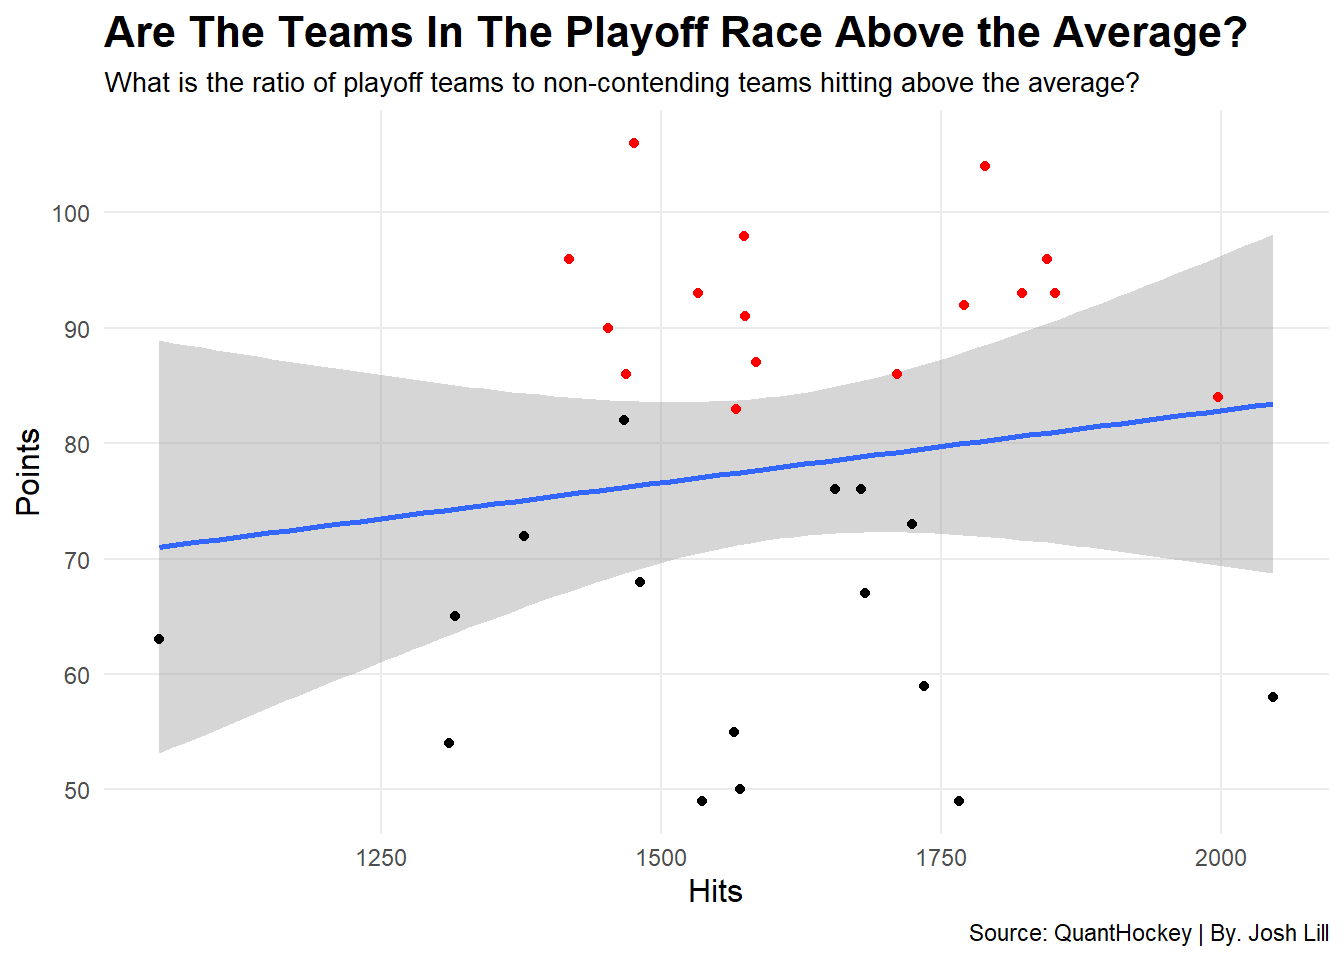
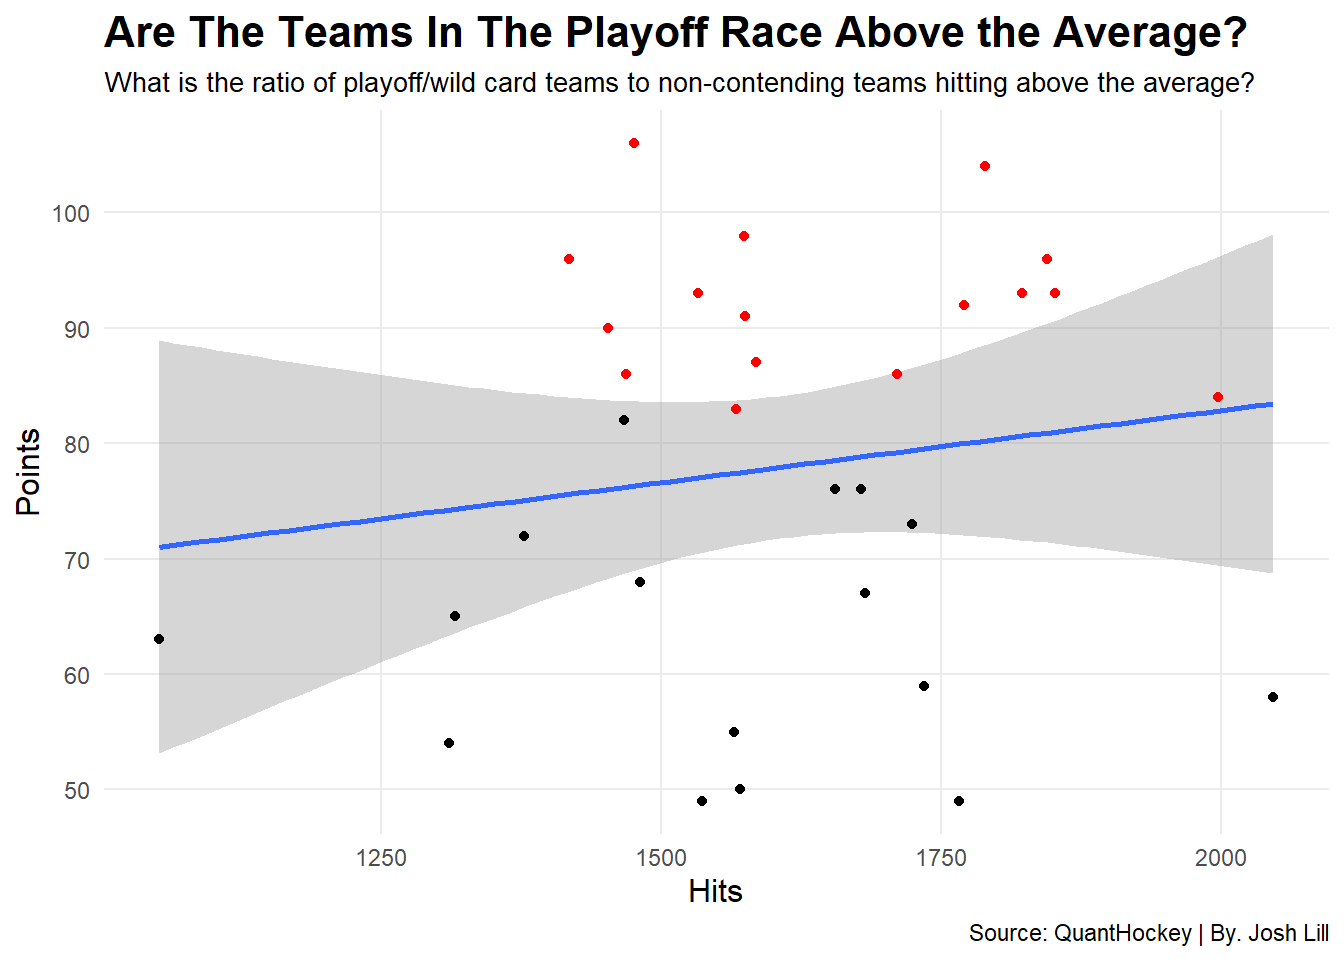
FinalEdits3
yuh

Changed region(s): [[0.3125, 0.0625, 0.9375, 0.0938]]

diff --git a/2022/03/31/does-the-amount-of-hits-by-a-team-in-the-nhl-weigh-into-their-wins/index.html b/2022/03/31/does-the-amount-of-hits-by-a-team-in-the-nhl-weigh-into-their-wins/index.html
@@ -79,17 +79,18 @@
 <p>The main question that needs to be asked: Do the amount of hits a team in the NHL has factor into their success?</p>
 <p>Now, take a look at each top 10 team’s hit totals up to this point in the 2021-22 season.</p>
 <p><img src="http://j-lill1102.github.io/2022/03/31/does-the-amount-of-hits-by-a-team-in-the-nhl-weigh-into-their-wins/index_files/figure-html/unnamed-chunk-2-1.png" width="672" />
-The Florida Panthers, currently the top team in the NHL, are currently sitting at sixth on the top 10 list for hits. The New York Rangers and the Boston Bruins, who round out the fourth and fifth ranked teams in the NHL standings, are also in the top 10 for hits in the NHL. There may be something to be said about the correlation between those three teams’ success and and their aggressiveness.</p>
+The Florida Panthers, currently the second-best team in the NHL, are currently sitting at sixth on the top 10 list for hits. The New York Rangers and the Boston Bruins, who round out the fifth and seventh ranked teams in the NHL standings, are also in the top 10 for hits in the NHL. There may be something to be said about the correlation between those three teams’ success and and their aggressiveness.</p>
+<p>However, the best team in the NHL, the Avalanche, sit at 24th on the list. Will this lack of hitting come to hurt them later on down the line? It will be something to keep an eye on.</p>
 <p>Below, the graph will attempt to show that very correlation between points and hits in the NHL. Points, for those who don’t know, are comprised of wins and overtime losses. You receive two points for a win and one point for an overtime loss. The more points you have, the higher you will be in the standings. Teams highlighted in red are in the playoffs as of today.</p>
 <p><img src="http://j-lill1102.github.io/2022/03/31/does-the-amount-of-hits-by-a-team-in-the-nhl-weigh-into-their-wins/index_files/figure-html/unnamed-chunk-4-1.png" width="672" /></p>
-<p>As you can see, 16 of the 17 teams above the hitting average are playoff teams. The one non-contending team in that spot: the Vegas Golden Knights. Take a look at the dot in the bottom right corner. That’s the Ottawa Senators, who have accumulated a league-high 2,079 hits, but a dismal 58 points.</p>
+<p>As you can see, 16 of the 17 teams above the hitting average are playoff/wild card teams. The one non-contending team in that spot: the Vegas Golden Knights. Take a look at the dot in the bottom right corner. That’s the Ottawa Senators, who have accumulated a league-high 2,079 hits, but a dismal 58 points.</p>
 <p>Jumping back to October, hits may not be the biggest factor in the game in October and November. It’s the start of a new season and that aspect of the game may not be on players’ minds. Or is it on their minds? Now, come March and April, hits may be adding up left and right with the playoffs right around the corner.</p>
-<div id="pbazvoadus" style="overflow-x:auto;overflow-y:auto;width:auto;height:auto;">
+<div id="rcrdwkpmbe" style="overflow-x:auto;overflow-y:auto;width:auto;height:auto;">
 <style>html {
   font-family: -apple-system, BlinkMacSystemFont, 'Segoe UI', Roboto, Oxygen, Ubuntu, Cantarell, 'Helvetica Neue', 'Fira Sans', 'Droid Sans', Arial, sans-serif;
 }
 
-#pbazvoadus .gt_table {
+#rcrdwkpmbe .gt_table {
   display: table;
   border-collapse: collapse;
   margin-left: auto;
@@ -114,7 +115,7 @@ The Florida Panthers, currently the top team in the NHL, are currently sitting a
   border-left-color: #D3D3D3;
 }
 
-#pbazvoadus .gt_heading {
+#rcrdwkpmbe .gt_heading {
   background-color: #FFFFFF;
   text-align: center;
   border-bottom-color: #FFFFFF;
@@ -126,7 +127,7 @@ The Florida Panthers, currently the top team in the NHL, are currently sitting a
   border-right-color: #D3D3D3;
 }
 
-#pbazvoadus .gt_title {
+#rcrdwkpmbe .gt_title {
   color: #333333;
   font-size: 125%;
   font-weight: initial;
@@ -138,7 +139,7 @@ The Florida Panthers, currently the top team in the NHL, are currently sitting a
   border-bottom-width: 0;
 }
 
-#pbazvoadus .gt_subtitle {
+#rcrdwkpmbe .gt_subtitle {
   color: #333333;
   font-size: 85%;
   font-weight: initial;
@@ -150,13 +151,13 @@ The Florida Panthers, currently the top team in the NHL, are currently sitting a
   border-top-width: 0;
 }
 
-#pbazvoadus .gt_bottom_border {
+#rcrdwkpmbe .gt_bottom_border {
   border-bottom-style: none;
   border-bottom-width: 2px;
   border-bottom-color: #D3D3D3;
 }
 
-#pbazvoadus .gt_col_headings {
+#rcrdwkpmbe .gt_col_headings {
   border-top-style: none;
   border-top-width: 2px;
   border-top-color: #D3D3D3;
@@ -171,7 +172,7 @@ The Florida Panthers, currently the top team in the NHL, are currently sitting a
   border-right-color: #D3D3D3;
 }
 
-#pbazvoadus .gt_col_heading {
+#rcrdwkpmbe .gt_col_heading {
   color: #333333;
   background-color: #FFFFFF;
   font-size: 100%;
@@ -191,7 +192,7 @@ The Florida Panthers, currently the top team in the NHL, are currently sitting a
   overflow-x: hidden;
 }
 
-#pbazvoadus .gt_column_spanner_outer {
+#rcrdwkpmbe .gt_column_spanner_outer {
   color: #333333;
   background-color: #FFFFFF;
   font-size: 100%;
@@ -203,15 +204,15 @@ The Florida Panthers, currently the top team in the NHL, are currently sitting a
   padding-right: 4px;
 }
 
-#pbazvoadus .gt_column_spanner_outer:first-child {
+#rcrdwkpmbe .gt_column_spanner_outer:first-child {
   padding-left: 0;
 }
 
-#pbazvoadus .gt_column_spanner_outer:last-child {
+#rcrdwkpmbe .gt_column_spanner_outer:last-child {
   padding-right: 0;
 }
 
-#pbazvoadus .gt_column_spanner {
+#rcrdwkpmbe .gt_column_spanner {
   border-bottom-style: none;
   border-bottom-width: 2px;
   border-bottom-color: #D3D3D3;
@@ -223,7 +224,7 @@ The Florida Panthers, currently the top team in the NHL, are currently sitting a
   width: 100%;
 }
 
-#pbazvoadus .gt_group_heading {
+#rcrdwkpmbe .gt_group_heading {
   padding-top: 8px;
   padding-bottom: 8px;
   padding-left: 5px;
@@ -248,7 +249,7 @@ The Florida Panthers, currently the top team in the NHL, are currently sitting a
   vertical-align: middle;
 }
 
-#pbazvoadus .gt_empty_group_heading {
+#rcrdwkpmbe .gt_empty_group_heading {
   padding: 0.5px;
   color: #333333;
   background-color: #FFFFFF;
@@ -263,15 +264,15 @@ The Florida Panthers, currently the top team in the NHL, are currently sitting a
   vertical-align: middle;
 }
 
-#pbazvoadus .gt_from_md > :first-child {
+#rcrdwkpmbe .gt_from_md > :first-child {
   margin-top: 0;
 }
 
-#pbazvoadus .gt_from_md > :last-child {
+#rcrdwkpmbe .gt_from_md > :last-child {
   margin-bottom: 0;
 }
 
-#pbazvoadus .gt_row {
+#rcrdwkpmbe .gt_row {
   padding-top: 8px;
   padding-bottom: 8px;
   padding-left: 5px;
@@ -290,7 +291,7 @@ The Florida Panthers, currently the top team in the NHL, are currently sitting a
   overflow-x: hidden;
 }
 
-#pbazvoadus .gt_stub {
+#rcrdwkpmbe .gt_stub {
   color: #333333;
   background-color: #FFFFFF;
   font-size: 100%;
@@ -303,7 +304,7 @@ The Florida Panthers, currently the top team in the NHL, are currently sitting a
   padding-right: 5px;
 }
 
-#pbazvoadus .gt_stub_row_group {
+#rcrdwkpmbe .gt_stub_row_group {
   color: #333333;
   background-color: #FFFFFF;
   font-size: 100%;
@@ -317,11 +318,11 @@ The Florida Panthers, currently the top team in the NHL, are currently sitting a
   vertical-align: top;
 }
 
-#pbazvoadus .gt_row_group_first td {
+#rcrdwkpmbe .gt_row_group_first td {
   border-top-width: 2px;
 }
 
-#pbazvoadus .gt_summary_row {
+#rcrdwkpmbe .gt_summary_row {
   color: #333333;
   background-color: #FFFFFF;
   text-transform: inherit;
@@ -331,16 +332,16 @@ The Florida Panthers, currently the top team in the NHL, are currently sitting a
   padding-right: 5px;
 }
 
-#pbazvoadus .gt_first_summary_row {
+#rcrdwkpmbe .gt_first_summary_row {
   border-top-style: none;
   border-top-color: #D3D3D3;
 }
 
-#pbazvoadus .gt_first_summary_row.thick {
+#rcrdwkpmbe .gt_first_summary_row.thick {
   border-top-width: 2px;
 }
 
-#pbazvoadus .gt_last_summary_row {
+#rcrdwkpmbe .gt_last_summary_row {
   padding-top: 8px;
   padding-bottom: 8px;
   padding-left: 5px;
@@ -350,7 +351,7 @@ The Florida Panthers, currently the top team in the NHL, are currently sitting a
   border-bottom-color: #D3D3D3;
 }
 
-#pbazvoadus .gt_grand_summary_row {
+#rcrdwkpmbe .gt_grand_summary_row {
   color: #333333;
   background-color: #FFFFFF;
   text-transform: inherit;
@@ -360,7 +361,7 @@ The Florida Panthers, currently the top team in the NHL, are currently sitting a
   padding-right: 5px;
 }
 
-#pbazvoadus .gt_first_grand_summary_row {
+#rcrdwkpmbe .gt_first_grand_summary_row {
   padding-top: 8px;
   padding-bottom: 8px;
   padding-left: 5px;
@@ -370,11 +371,11 @@ The Florida Panthers, currently the top team in the NHL, are currently sitting a
   border-top-color: #D3D3D3;
 }
 
-#pbazvoadus .gt_striped {
+#rcrdwkpmbe .gt_striped {
   background-color: rgba(128, 128, 128, 0.05);
 }
 
-#pbazvoadus .gt_table_body {
+#rcrdwkpmbe .gt_table_body {
   border-top-style: none;
   border-top-width: 2px;
   border-top-color: #D3D3D3;
@@ -383,7 +384,7 @@ The Florida Panthers, currently the top team in the NHL, are currently sitting a
   border-bottom-color: #D3D3D3;
 }
 
-#pbazvoadus .gt_footnotes {
+#rcrdwkpmbe .gt_footnotes {
   color: #333333;
   background-color: #FFFFFF;
   border-bottom-style: none;
@@ -397,7 +398,7 @@ The Florida Panthers, currently the top team in the NHL, are currently sitting a
   border-right-color: #D3D3D3;
 }
 
-#pbazvoadus .gt_footnote {
+#rcrdwkpmbe .gt_footnote {
   margin: 0px;
   font-size: 90%;
   padding-left: 4px;
@@ -406,7 +407,7 @@ The Florida Panthers, currently the top team in the NHL, are currently sitting a
   padding-right: 5px;
 }
 
-#pbazvoadus .gt_sourcenotes {
+#rcrdwkpmbe .gt_sourcenotes {
   color: #333333;
   background-color: #FFFFFF;
   border-bottom-style: none;
@@ -420,7 +421,7 @@ The Florida Panthers, currently the top team in the NHL, are currently sitting a
   border-right-color: #D3D3D3;
 }
 
-#pbazvoadus .gt_sourcenote {
+#rcrdwkpmbe .gt_sourcenote {
   font-size: 90%;
   padding-top: 4px;
   padding-bottom: 4px;
@@ -428,60 +429,60 @@ The Florida Panthers, currently the top team in the NHL, are currently sitting a
   padding-right: 5px;
 }
 
-#pbazvoadus .gt_left {
+#rcrdwkpmbe .gt_left {
   text-align: left;
 }
 
-#pbazvoadus .gt_center {
+#rcrdwkpmbe .gt_center {
   text-align: center;
 }
 
-#pbazvoadus .gt_right {
+#rcrdwkpmbe .gt_right {
   text-align: right;
   font-variant-numeric: tabular-nums;
 }
 
-#pbazvoadus .gt_font_normal {
+#rcrdwkpmbe .gt_font_normal {
   font-weight: normal;
 }
 
-#pbazvoadus .gt_font_bold {
+#rcrdwkpmbe .gt_font_bold {
   font-weight: bold;
 }
 
-#pbazvoadus .gt_font_italic {
+#rcrdwkpmbe .gt_font_italic {
   font-style: italic;
 }
 
-#pbazvoadus .gt_super {
+#rcrdwkpmbe .gt_super {
   font-size: 65%;
 }
 
-#pbazvoadus .gt_footnote_marks {
+#rcrdwkpmbe .gt_footnote_marks {
   font-style: italic;
   font-weight: normal;
   font-size: 75%;
   vertical-align: 0.4em;
 }
 
-#pbazvoadus .gt_asterisk {
+#rcrdwkpmbe .gt_asterisk {
   font-size: 100%;
   vertical-align: 0;
 }
 
-#pbazvoadus .gt_slash_mark {
+#rcrdwkpmbe .gt_slash_mark {
   font-size: 0.7em;
   line-height: 0.7em;
   vertical-align: 0.15em;
 }
 
-#pbazvoadus .gt_fraction_numerator {
+#rcrdwkpmbe .gt_fraction_numerator {
   font-size: 0.6em;
   line-height: 0.6em;
   vertical-align: 0.45em;
 }
 
-#pbazvoadus .gt_fraction_denominator {
+#rcrdwkpmbe .gt_fraction_denominator {
   font-size: 0.6em;
   line-height: 0.6em;
   vertical-align: -0.05em;
